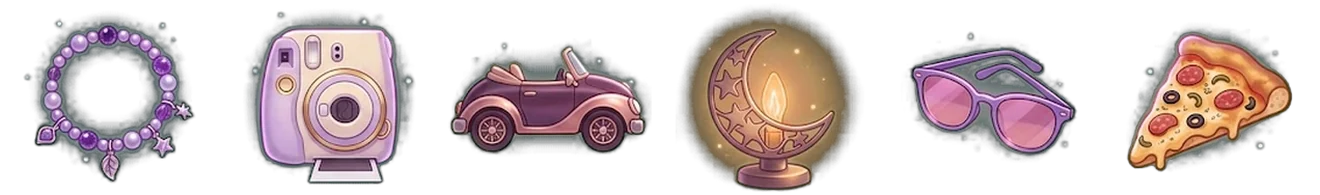
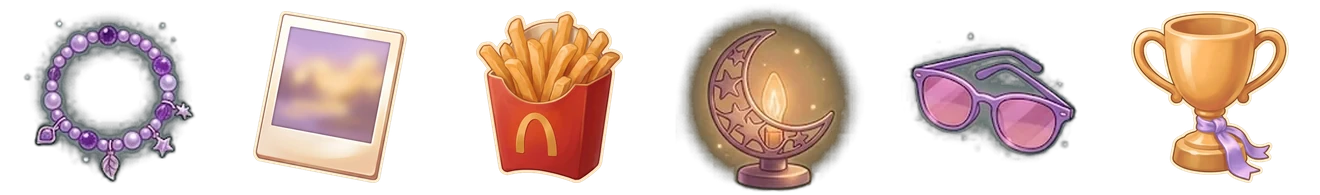
Two lines in the dark, and a memory made of true things
The world no longer sits behind the crack waiting to be seen: a black
veil holds until she picks purple, and lifts with the colour. His line
became two — 3am bet5eyal shaklik hala2, then 3njd fakarte hayde hiye? —
white and painted after the drain, because painted before it they came
out grey and so did the emoji.

The memory hunt is a printed photo, a McDonald's fries carton and a
trophy; the bracelet, the moon lamp and the sunglasses are the decoys.
The two lines that were not true of her — being late, arguing about
eating — are gone with the objects that carried them. The photo also
takes a proper beat after the third tap instead of arriving on it.

Claude-Session: https://claude.ai/code/session_018UCuTSNG2odHLTXjxQTbnU

Changed region(s): [[0.1864, 0.0615, 0.497, 0.9538], [0.8386, 0.0308, 0.9939, 0.9538]]

diff --git a/index.html b/index.html
@@ -733,7 +733,8 @@ const CONFIG = {
   ],
 
   /* ---- the lines he says when he kicks the card in ---- */
-  BREAK_LINES: [ "Lol you really thought id make something lame?" ],
+  BREAK_LINES: [ "3am bet5eyal shaklik hala2 😂",
+                 "3njd fakarte hayde hiye?" ],
 
   /* ---- the way in. Get it right and the whole place comes on. ---- */
   ASK_TITLE:  "prove it's you.",
@@ -787,12 +788,12 @@ const CONFIG = {
 
   /* Three of these are ours. She needs all three before it develops. */
   OBJECTS: [
-    { i:0, key:true, line:"The purple one. You had it on all night." },
-    { i:1, key:true, line:"You took about forty of these. I'm in two of them." },
-    { i:2,           line:"\"Five minutes away.\" You were not five minutes away." },
-    { i:3, key:true, line:"Somebody named you after this. Good call." },
+    { i:0,           line:"The purple one. You had it on all night." },
+    { i:1, key:true, line:"This one. I go back to it more than I admit." },
+    { i:2, key:true, line:"The fries era. You did your time." },
+    { i:3,           line:"Somebody named you after this. Good call." },
     { i:4,           line:"Indoors. At night. Iconic." },
-    { i:5,           line:"You said you weren't hungry." }
+    { i:5, key:true, line:"And then this. Look where you got to." }
   ],
   HUNT_SUB:    "Three of these are ours. Find them.",
   HUNT_PIECE:  ["one.", "two.", "…there it is."],
@@ -1108,6 +1109,7 @@ let obstacles = [], pickups = [], parts = [], floats = [], cracks = [];
 let candles = 0, frosting = 3, shake = 0, t = 0, lineIdx = 0;
 let scroll = 0, speed = 0, nextSpawn = 0, breakLine = -1, glow = 0;
 let colour = 0, unlocking = false;     /* 0 = drained, 1 = her colour, everywhere */
+let dark = 1;                          /* and until then there is nothing to see */
 let inRoom = false;                    /* the building behind swaps at the end */
 let fireworksOn = false;
 const sparks = [];
@@ -1299,7 +1301,8 @@ function breakIt(){
     $('dialogs').innerHTML = '';
     breakLine = 0; cracks = [];
   }, 1150);
-  setTimeout(askColour, 4300);          // it is a longer line than it was
+  setTimeout(() => { breakLine = 1; }, 2700);
+  setTimeout(askColour, 5200);          // two lines to read, in the dark
 }
 
 /* ================================================================= the gate
@@ -1435,7 +1438,10 @@ function update(dt){
   t += dt;
   shake *= Math.pow(0.0016, dt);
   glow += ((state >= S.WON ? 1 : 0) - glow) * Math.min(1, dt * 1.2);
-  if (unlocking) colour = Math.min(1, colour + dt * 1.15);
+  if (unlocking){
+    colour = Math.min(1, colour + dt * 1.15);
+    dark   = Math.max(0, dark - dt * 1.25);      // the place arrives with it
+  }
   luna.bob += dt;
   if (state >= S.BREAK) runner.in += (1 - runner.in) * Math.min(1, dt * 2.4);
   /* he stands there, arms folded, for as long as he is the one talking */
@@ -2235,14 +2241,13 @@ function draw(){
   }
   ctx.globalAlpha = 1;
 
-  if (state === S.BREAK && breakLine >= 0){
-    ctx.fillStyle = '#f3ecff';
-    ctx.font = "italic 600 " + Math.round(24 * SC) + "px 'Fraunces',Georgia,serif";
-    ctx.textAlign = 'center'; ctx.textBaseline = 'middle';
-    ctx.shadowColor = 'rgba(0,0,0,.8)'; ctx.shadowBlur = 22;
-    wrapped(CONFIG.BREAK_LINES[breakLine], W / 2, H * 0.30, W * 0.84, 32 * SC);
-    ctx.shadowBlur = 0;
+  /* black over the top of everything, so the first thing she ever sees of
+     the place is the moment she picks purple. The lines below sit on it. */
+  if (dark > 0.001){
+    ctx.fillStyle = 'rgba(4,2,9,' + dark + ')';
+    ctx.fillRect(-80, -80, W + 160, H + 160);    // wide enough to survive shake
   }
+
   ctx.restore();
 
   /* Everything above is painted in full colour and then drained, so the
@@ -2261,6 +2266,18 @@ function draw(){
   if (flash > 0.01){
     ctx.fillStyle = 'rgba(255,255,255,' + (0.5 * flash) + ')';
     ctx.fillRect(0, 0, W, H);
+  }
+
+  /* his lines go on last of all — painted before the drain they came out
+     grey, and the emoji came out grey with them */
+  if (state === S.BREAK && breakLine >= 0){
+    ctx.save();
+    ctx.fillStyle = '#ffffff';
+    ctx.font = "italic 600 " + Math.round(27 * SC) + "px 'Fraunces',Georgia,serif";
+    ctx.textAlign = 'center'; ctx.textBaseline = 'middle';
+    ctx.shadowColor = 'rgba(0,0,0,.9)'; ctx.shadowBlur = 26;
+    wrapped(CONFIG.BREAK_LINES[breakLine], W / 2, H * 0.42, W * 0.86, 36 * SC);
+    ctx.restore();
   }
   drawCracks();
 }
@@ -2411,7 +2428,7 @@ function openHunt(){
              (CONFIG.HUNT_PIECE[huntGot - 1] || '') + '</b>');
         if (huntGot >= need){
           note('huntNote', CONFIG.HUNT_FOUND);
-          setTimeout(revealPhoto, 900);
+          setTimeout(revealPhoto, 1800);   // let the third one land first
         }
       } else {
         sfx.pick();
